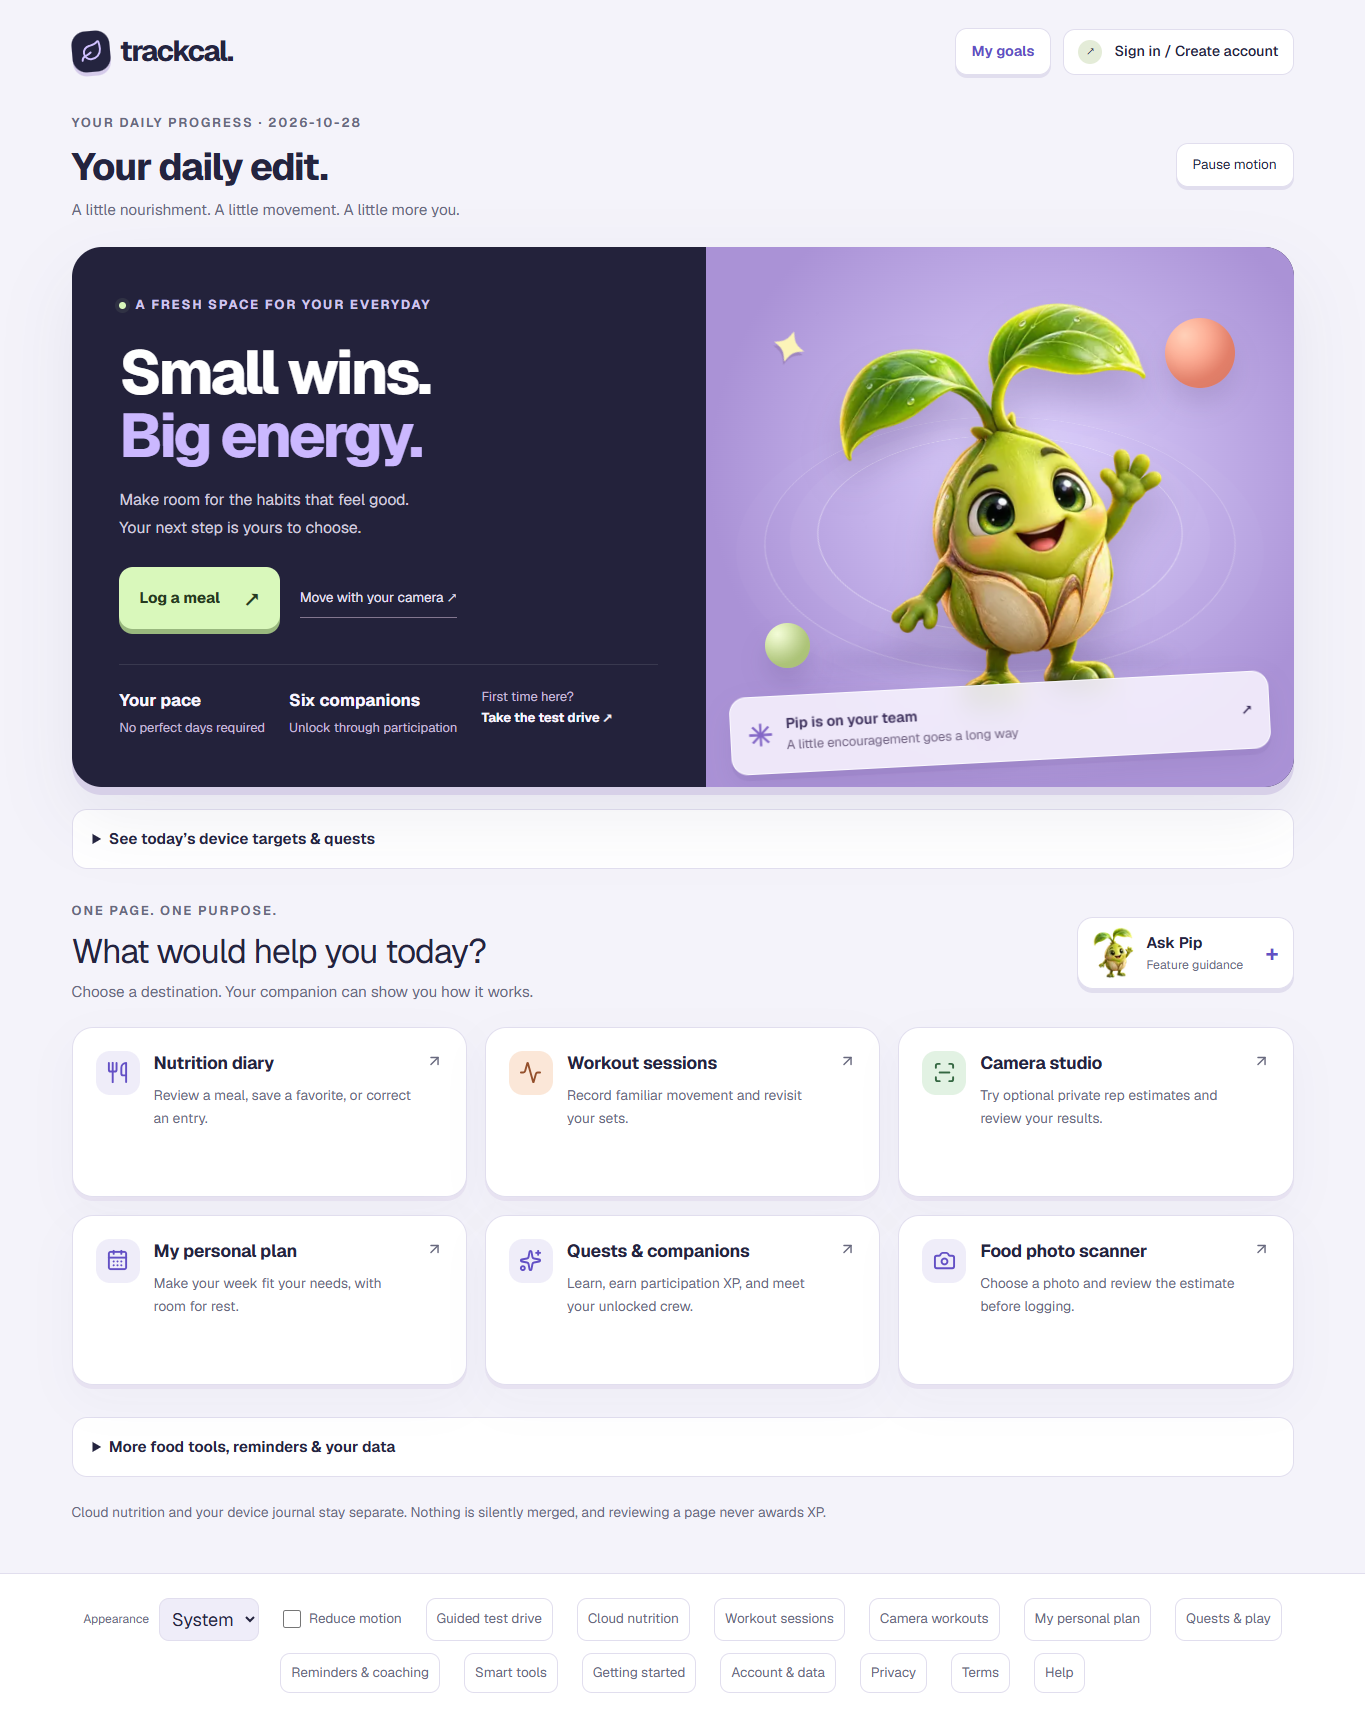
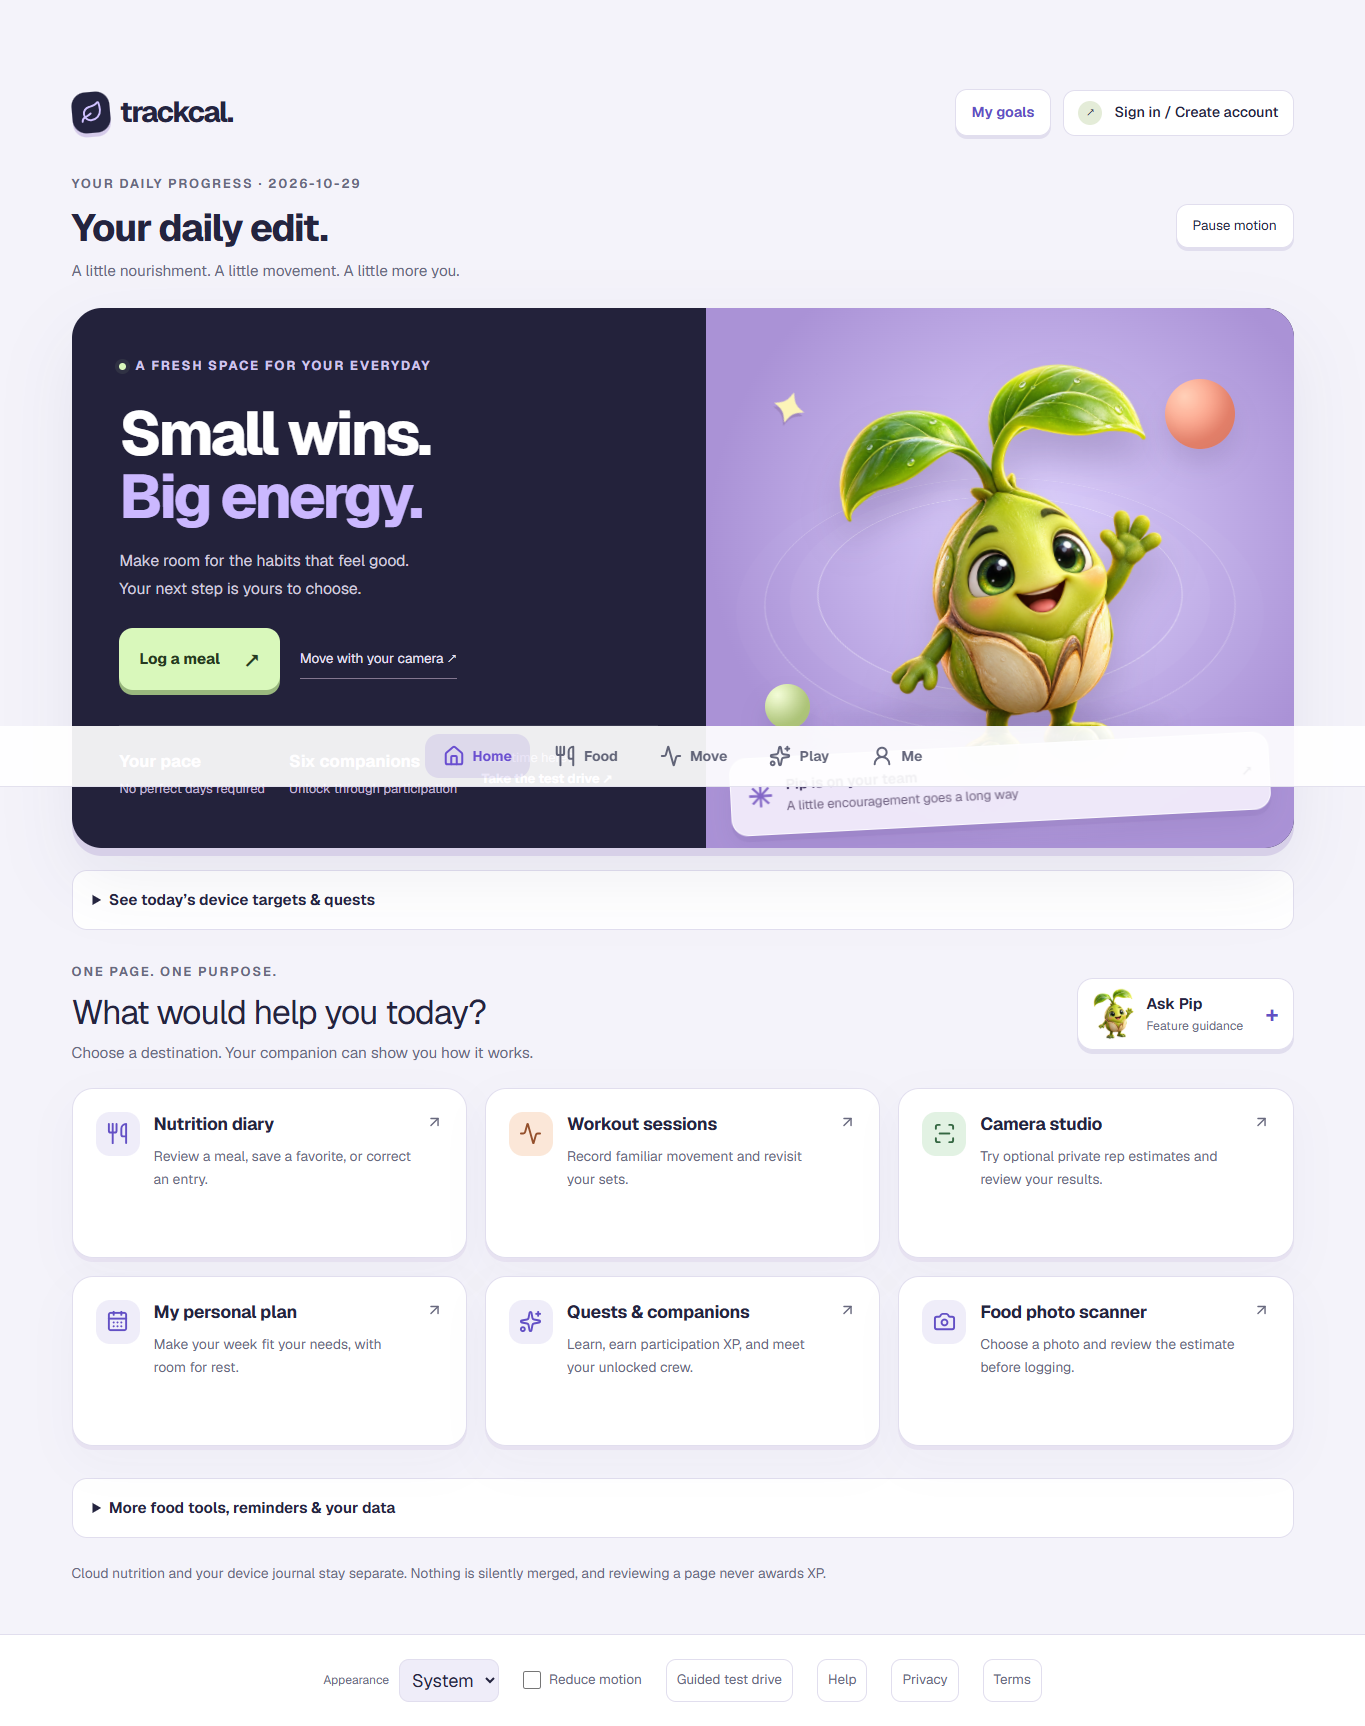
fix(ai): use named free vision models instead of openrouter/free
openrouter/free picked any free model per request, including a
content-safety classifier, so live meal estimates failed. OPENROUTER_MODEL
now takes one model or a fallback list, defaulting to two named free
vision models; a live estimate succeeds through the fallback.

diff --git a/backend/services/openrouter_client.py b/backend/services/openrouter_client.py
@@ -10,7 +10,15 @@ from typing import Optional, List, Dict, Any
 from pydantic import BaseModel, ConfigDict, Field, TypeAdapter
 
 OPENROUTER_URL = "https://openrouter.ai/api/v1/chat/completions"
-DEFAULT_MODEL = os.getenv("OPENROUTER_MODEL", "openrouter/free")
+# Named models, tried in order (OpenRouter fallback). Never the bare "openrouter/free" router: it picks any free
+# model per request, including classifiers that cannot read food (found 29 October 2026).
+DEFAULT_MODELS = ("google/gemma-4-31b-it:free", "nvidia/nemotron-3.5-super-vl:free")
+
+
+def model_fields(model=None):
+    """Request fields for the configured model(s): OPENROUTER_MODEL may be one model or a comma-separated list."""
+    names = [name.strip() for name in (model or os.getenv("OPENROUTER_MODEL") or "").split(",") if name.strip()] or list(DEFAULT_MODELS)
+    return {"model": names[0]} if len(names) == 1 else {"models": names}
 
 
 class FoodEstimate(BaseModel):
@@ -46,7 +54,6 @@ async def analyze_food_image_openrouter(
     if not api_key:
         raise ValueError("OPENROUTER_API_KEY is not configured in .env")
 
-    target_model = model or os.getenv("OPENROUTER_MODEL", DEFAULT_MODEL)
     b64_image = base64.b64encode(image_bytes).decode("utf-8")
     data_url = f"data:{mime_type};base64,{b64_image}"
 
@@ -76,7 +83,7 @@ async def analyze_food_image_openrouter(
     }
 
     payload = {
-        "model": target_model,
+        **model_fields(model),
         "messages": [
             {
                 "role": "user",
@@ -122,7 +129,6 @@ async def parse_text_meal_openrouter(
     if not api_key:
         raise ValueError("OPENROUTER_API_KEY is not configured in .env")
 
-    target_model = model or os.getenv("OPENROUTER_MODEL", DEFAULT_MODEL)
 
     prompt = (
         f"You are a nutritional nutrition parser. Parse this user meal description into individual food components: '{text}' (Language: {language}).\n"
@@ -145,7 +151,7 @@ async def parse_text_meal_openrouter(
     }
 
     payload = {
-        "model": target_model,
+        **model_fields(model),
         "messages": [{"role": "user", "content": prompt}],
         "temperature": 0.2,
         "max_tokens": 2500,

diff --git a/backend/flask_app/web_gateway.py b/backend/flask_app/web_gateway.py
@@ -17,6 +17,7 @@ import httpx
 from flask import Blueprint, current_app, g, jsonify, request
 
 from services.meal_analysis import normalize_meal
+from services.openrouter_client import model_fields
 
 bp = Blueprint('web', __name__, url_prefix='/api')
 ACCESS, REFRESH = 'trackcal_access', 'trackcal_refresh'
@@ -341,7 +342,7 @@ def analyze():
                 if not quota.ok: return forward(quota)
             except Exception: return error('Account verification is unavailable. Please try again.', 503)
         content = [{'type': 'text', 'text': text or 'Analyze this meal photo.'}, {'type': 'image_url', 'image_url': {'url': image}}] if image else text
-        payload = {'model': os.getenv('OPENROUTER_MODEL') or 'openrouter/free', 'messages': [{'role': 'system', 'content': SYSTEM_PROMPT}, {'role': 'user', 'content': content}],
+        payload = {**model_fields(), 'messages': [{'role': 'system', 'content': SYSTEM_PROMPT}, {'role': 'user', 'content': content}],
                    'response_format': {'type': 'json_object'}, 'temperature': 0.1, 'max_tokens': 2500}
         for attempt in range(2):
             try:
@@ -354,7 +355,7 @@ def analyze():
                 body = response.json(); raw = (body.get('choices') or [{}])[0].get('message', {}).get('content')
                 if not isinstance(raw, str): raise ValueError('No response')
                 cleaned = re.sub(r'\s*```$', '', re.sub(r'^```(?:json)?\s*', '', raw.strip(), flags=re.I))
-                return reply(normalize_meal(json.loads(cleaned), body.get('model') or 'openrouter/free'))
+                return reply(normalize_meal(json.loads(cleaned), body.get('model') or 'unknown model'))
             except Exception as failure:
                 if str(failure).startswith('No readable food found'): return error(str(failure), 422)
                 if attempt == 1: break

diff --git a/backend/tests/test_web_gateway.py b/backend/tests/test_web_gateway.py
@@ -188,7 +188,16 @@ def test_ai_recomputes_nutrition_and_keeps_credentials_out(internet):
     data = response.get_json()
     assert response.status_code == 200 and data['total_nutrition']['calories'] == 78 and data['is_mock'] is False
     assert 'unit-test-key' not in response.get_data(as_text=True)
-    assert calls[0]['json']['model'] == 'openrouter/free'
+    # Named free vision models in fallback order, never the any-free-model router.
+    from services.openrouter_client import DEFAULT_MODELS
+    assert calls[0]['json']['models'] == list(DEFAULT_MODELS) and 'model' not in calls[0]['json']
+
+
+def test_ai_sends_a_single_configured_model_as_one_model(internet, monkeypatch):
+    monkeypatch.setenv('OPENROUTER_MODEL', 'example/vision-model:free')
+    calls, replies = internet; replies.append(model_reply(json.dumps({'components': [ITEM]})))
+    assert post(browser(), '/api/analyze', {'text': 'Egg'}).status_code == 200
+    assert calls[0]['json']['model'] == 'example/vision-model:free' and 'models' not in calls[0]['json']
 
 
 @pytest.mark.parametrize('status', [401, 429, 503])

diff --git a/docs/STEP4_ALIGNMENT_20261029.md b/docs/STEP4_ALIGNMENT_20261029.md
@@ -1,0 +1,42 @@
+# Step 4 (part 1): navigation, alignment and live feature checks — 29 October 2026
+
+## Owner decision: navigation
+
+On 29 October 2026 the owner chose a **bottom tab bar** (Home, Food, Move, Play, Me). This replaces the earlier "no navigation bar" direction recorded in `UX_HOME_REORGANIZATION_20261028.md`.
+
+- **Phones:** a fixed bottom bar with 44 px+ targets, safe-area padding, and the current tab marked (`aria-current="page"`).
+- **From 860 px:** the same five tabs as a sticky top bar.
+- **Slim page header:** brand link, "Ask Pip", and the current section's pages as a scrollable row. Food has 7 pages, Move 3, Play 2, Me 8, so every destination is within two taps.
+- **Sign-in screens and the offline journal** have no navigation. Home keeps its own header.
+- **The footer** went from 13 links to Appearance, Reduce motion, Guided test drive, Help, Privacy and Terms.
+- **Bottom-docked elements** (toasts, the floating companion and its re-enable button, the onboarding companion) are lifted above the tab bar.
+
+Code: `src/components/app-navigation.tsx`, `src/app/navigation.css`. The old `studio-navigation.tsx` was removed.
+
+## Alignment fixes
+
+| Problem | Fix |
+|---|---|
+| Nutrition, Workouts, Camera and Play each had their own header and link row duplicating navigation | Removed; Play keeps its Calm mode control |
+| The food workspace's internal switcher was labelled "Main navigation" | Renamed "Food workspace sections" |
+| Home header buttons wrapped to a second row; "Pause motion" took a full row on phones | One-row header; compact 44 px buttons (`src/app/layout.css`) |
+| Signed-out cards ran "Sign in →" and the alternative together as plain text (4 pages) | A primary "Sign in" button and a secondary button, full width on phones |
+| `/routine` scrolled sideways at 360 px | See the frontend migration report |
+
+## Live feature checks (real services)
+
+| Feature | Result |
+|---|---|
+| Barcode lookup (Open Food Facts) | **PASS**: 3017620422003 → Nutella, 539 kcal/100 g |
+| Food search (USDA FoodData Central) | **PASS**: "banana" → 12 complete results |
+| AI meal estimate (OpenRouter) | **FAILED, then FIXED.** `OPENROUTER_MODEL=openrouter/free` lets OpenRouter pick any free model; it picked a content-safety classifier that replied "User Safety: safe", so every estimate failed (correctly, without inventing food). Now the API sends two named free vision models in fallback order (`google/gemma-4-31b-it:free`, `nvidia/nemotron-3.5-super-vl:free`); `OPENROUTER_MODEL` accepts one model or a comma-separated list. Rerun: "2 idli with coconut chutney and a cup of sambar" → 3 items, 315 kcal, in 20.8 s via the fallback model |
+
+Not verified: a real meal **photo** through the live model (the stubbed tests cover the photo path); estimate accuracy (Phase 2); and latency. About 20 s is slow, and the scanner already shows progress while it waits.
+
+## Verification
+
+358/358 backend, 168/168 web, TypeScript, lint 0 errors / 2 accepted warnings. In Chromium: studio 14/14 (now expecting exactly one main navigation), all 27 routes and the 404 page clean at 360 px, and privacy 16/16.
+
+## Remaining in step 4
+
+End-to-end UI journeys for every feature while signed in: diary add/edit/delete, saved meals, workouts and camera save, plan and onboarding, quests and XP, reminders, coach booking, smart tools, export, password change and account closure. Each runs at 360 px and desktop, including failure paths.

diff --git a/README.md b/README.md
@@ -106,7 +106,7 @@ Scan the QR code with the Expo Go app on iOS or Android to test the native mobil
 
 AI estimates and browser-local tracking do not need MySQL, but they do need the Flask API running:
 
-1. In `backend/.env`, set `OPENROUTER_API_KEY` and `OPENROUTER_MODEL=openrouter/free`. The key stays on the server; never give it a `VITE_` prefix, which would publish it in the browser bundle. `frontend/web/.env.local` is no longer read and can be deleted.
+1. In `backend/.env`, set `OPENROUTER_API_KEY`, and optionally `OPENROUTER_MODEL` (one model or a comma-separated fallback list; the default is two named free vision models). Do not use `openrouter/free`: it picks any free model, including ones that cannot read food. The key stays on the server; never give it a `VITE_` prefix, which would publish it in the browser bundle. `frontend/web/.env.local` is no longer read and can be deleted.
 2. Start the API, then run `npm install` and `npm run dev` in `frontend/web`.
 3. Upload a meal or nutrition-label photo, describe a meal, scan/type a barcode, or use manual entry in Journal & Coach.
 
